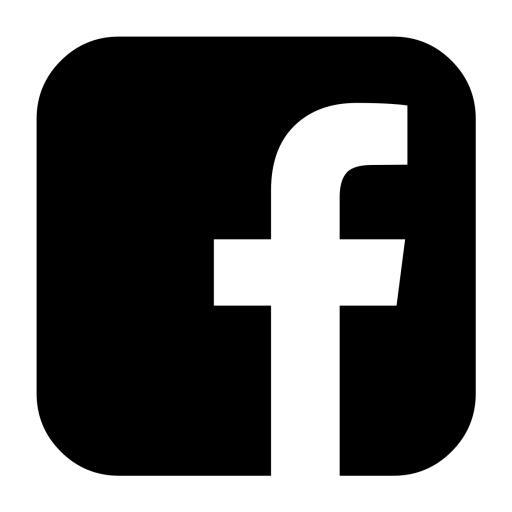
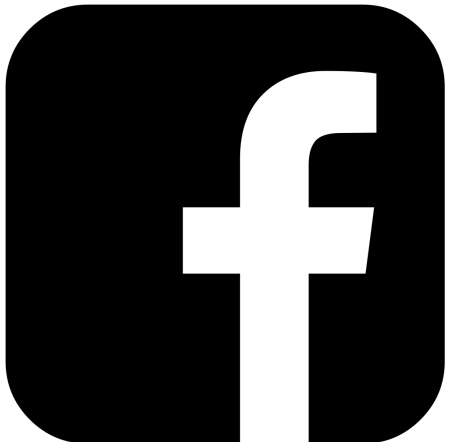
Changed Footer

Changed region(s): [[0.0, 0.0, 0.9956, 1.0], [0.4044, 0.3235, 0.56, 0.6176]]

diff --git a/AliceRestuarant/events.html b/AliceRestuarant/events.html
@@ -126,6 +126,41 @@
     </div>
 
 
+    <div class="footer">
+        <ul class="nav-bar">
+            <li class="nav-bar-li">
+                <a href="cookies.html">
+                    <h3>Cookies</h3>
+                </a>
+            </li>
+            <li class="nav-bar-li">
+                <a href="T&C.html">
+                    <h3>Terms and Conditions</h3>
+                </a>
+            </li>
+            <li class="nav-bar-li">
+                <a href="accessability.html">
+                    <h3>Accessability</h3>
+                </a>
+            </li>
+            <li class="nav-bar-li">
+                <a href="instagram.com">
+                    <img class="instasocial" src="./Photos/Instagram.jpg"></img>
+                </a>
+            </li>
+            <li class="nav-bar-li">
+                <a href="facebook.com">
+                    <img class="facesocial" src="./Photos/Facebook.png"></img>
+                </a>
+            </li>
+            <li class="nav-bar-li">
+                <h3 style="color:white"> Address: 146 North Street, St Andrews, KY16 9AF</h3>
+            </li>
+        </ul>
+    </div>
+
+
+
     <div id="id02" class="modal">
 
         <form class="modalContent" action="events.html" method="post">

diff --git a/AliceRestuarant/About.html b/AliceRestuarant/About.html
@@ -122,7 +122,7 @@
             </li>
             <li class="nav-bar-li">
                 <a href="instagram.com">
-                    <img class="instasocial" src="./Photos/Instagram.png"></img>
+                    <img class="instasocial" src="./Photos/Instagram.jpg"></img>
                 </a>
             </li>
             <li class="nav-bar-li">

diff --git a/AliceRestuarant/covidInfo.html b/AliceRestuarant/covidInfo.html
@@ -116,7 +116,7 @@
             </li>
             <li class="nav-bar-li">
                 <a href="instagram.com">
-                    <img class="instasocial" src="./Photos/Instagram.png"></img>
+                    <img class="instasocial" src="./Photos/Instagram.jpg"></img>
                 </a>
             </li>
             <li class="nav-bar-li">

diff --git a/AliceRestuarant/index.html b/AliceRestuarant/index.html
@@ -123,7 +123,7 @@
             </li>
             <li class="nav-bar-li">
                 <a href="instagram.com">
-                    <img class="instasocial" src="./Photos/Instagram.png"></img>
+                    <img class="instasocial" src="./Photos/Instagram.jpg"></img>
                 </a>
             </li>
             <li class="nav-bar-li">
